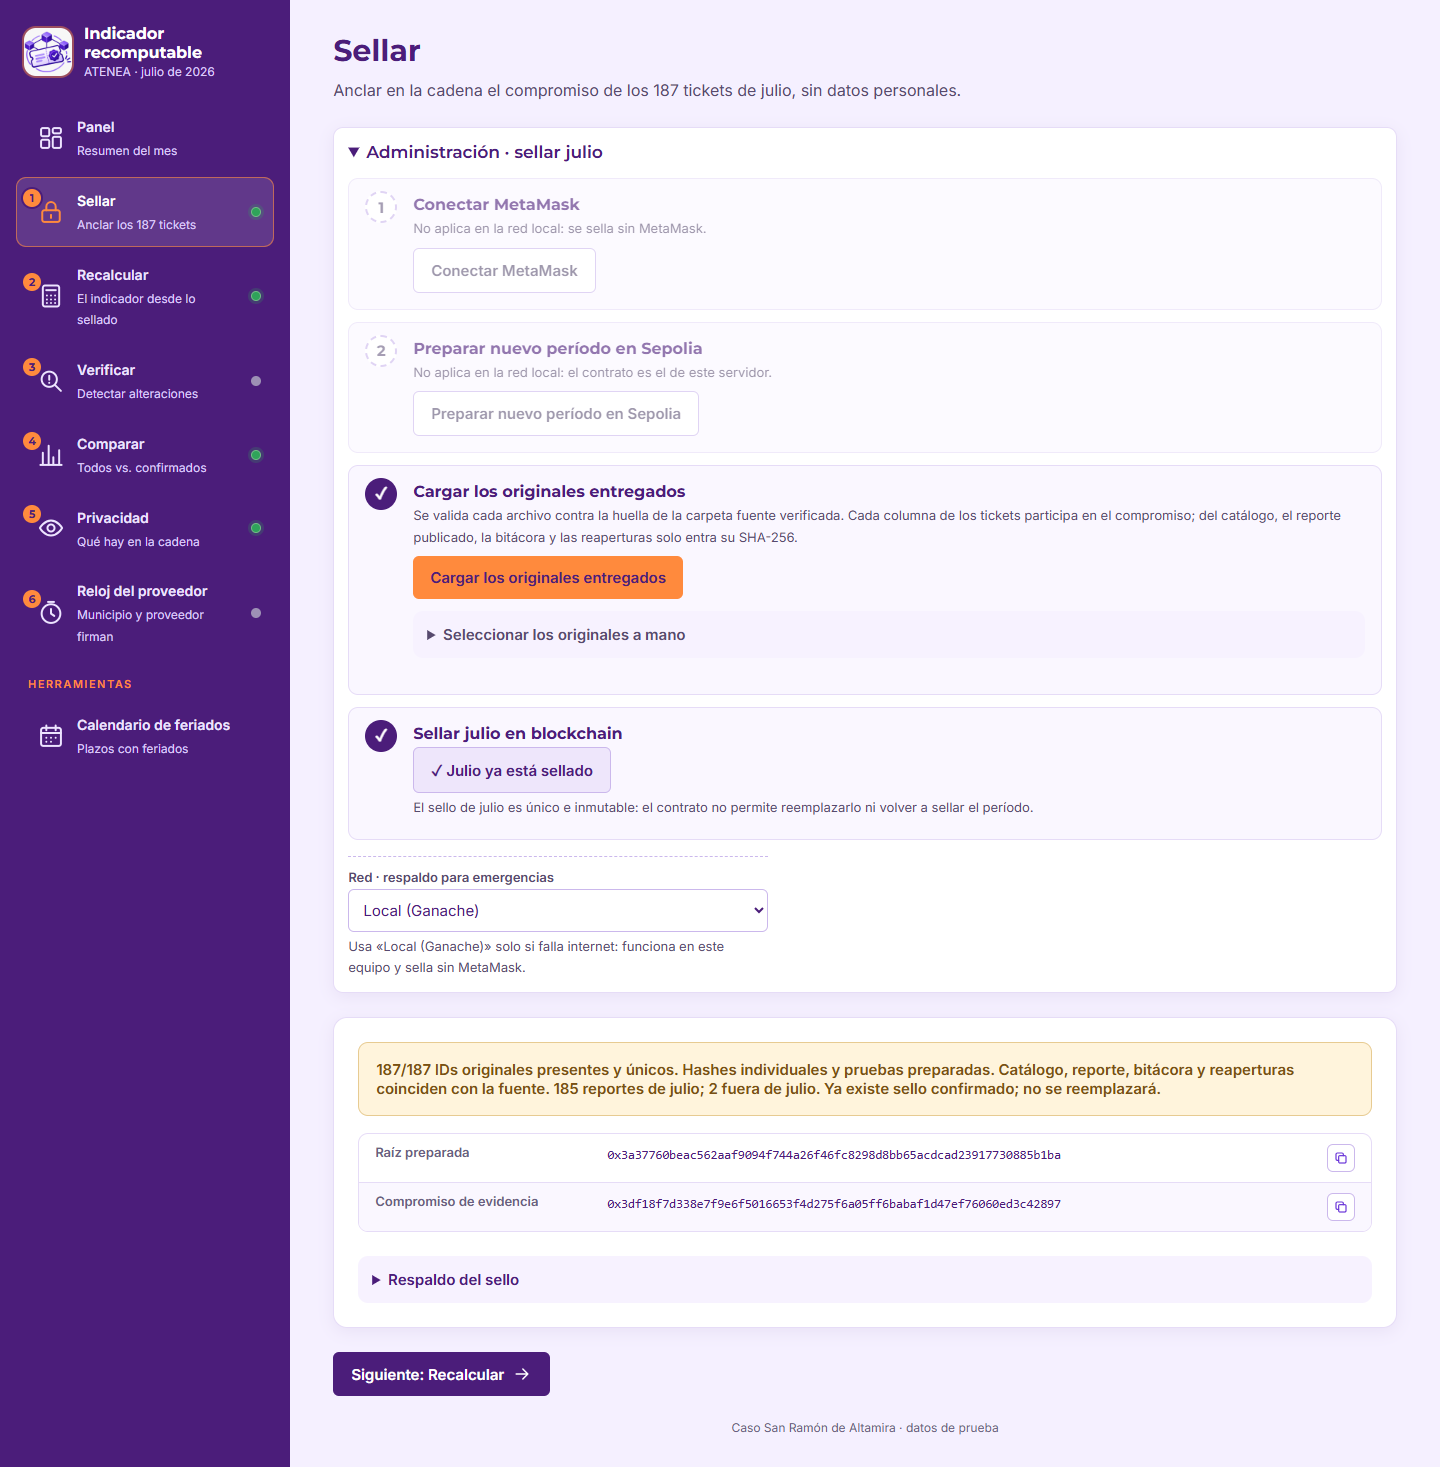
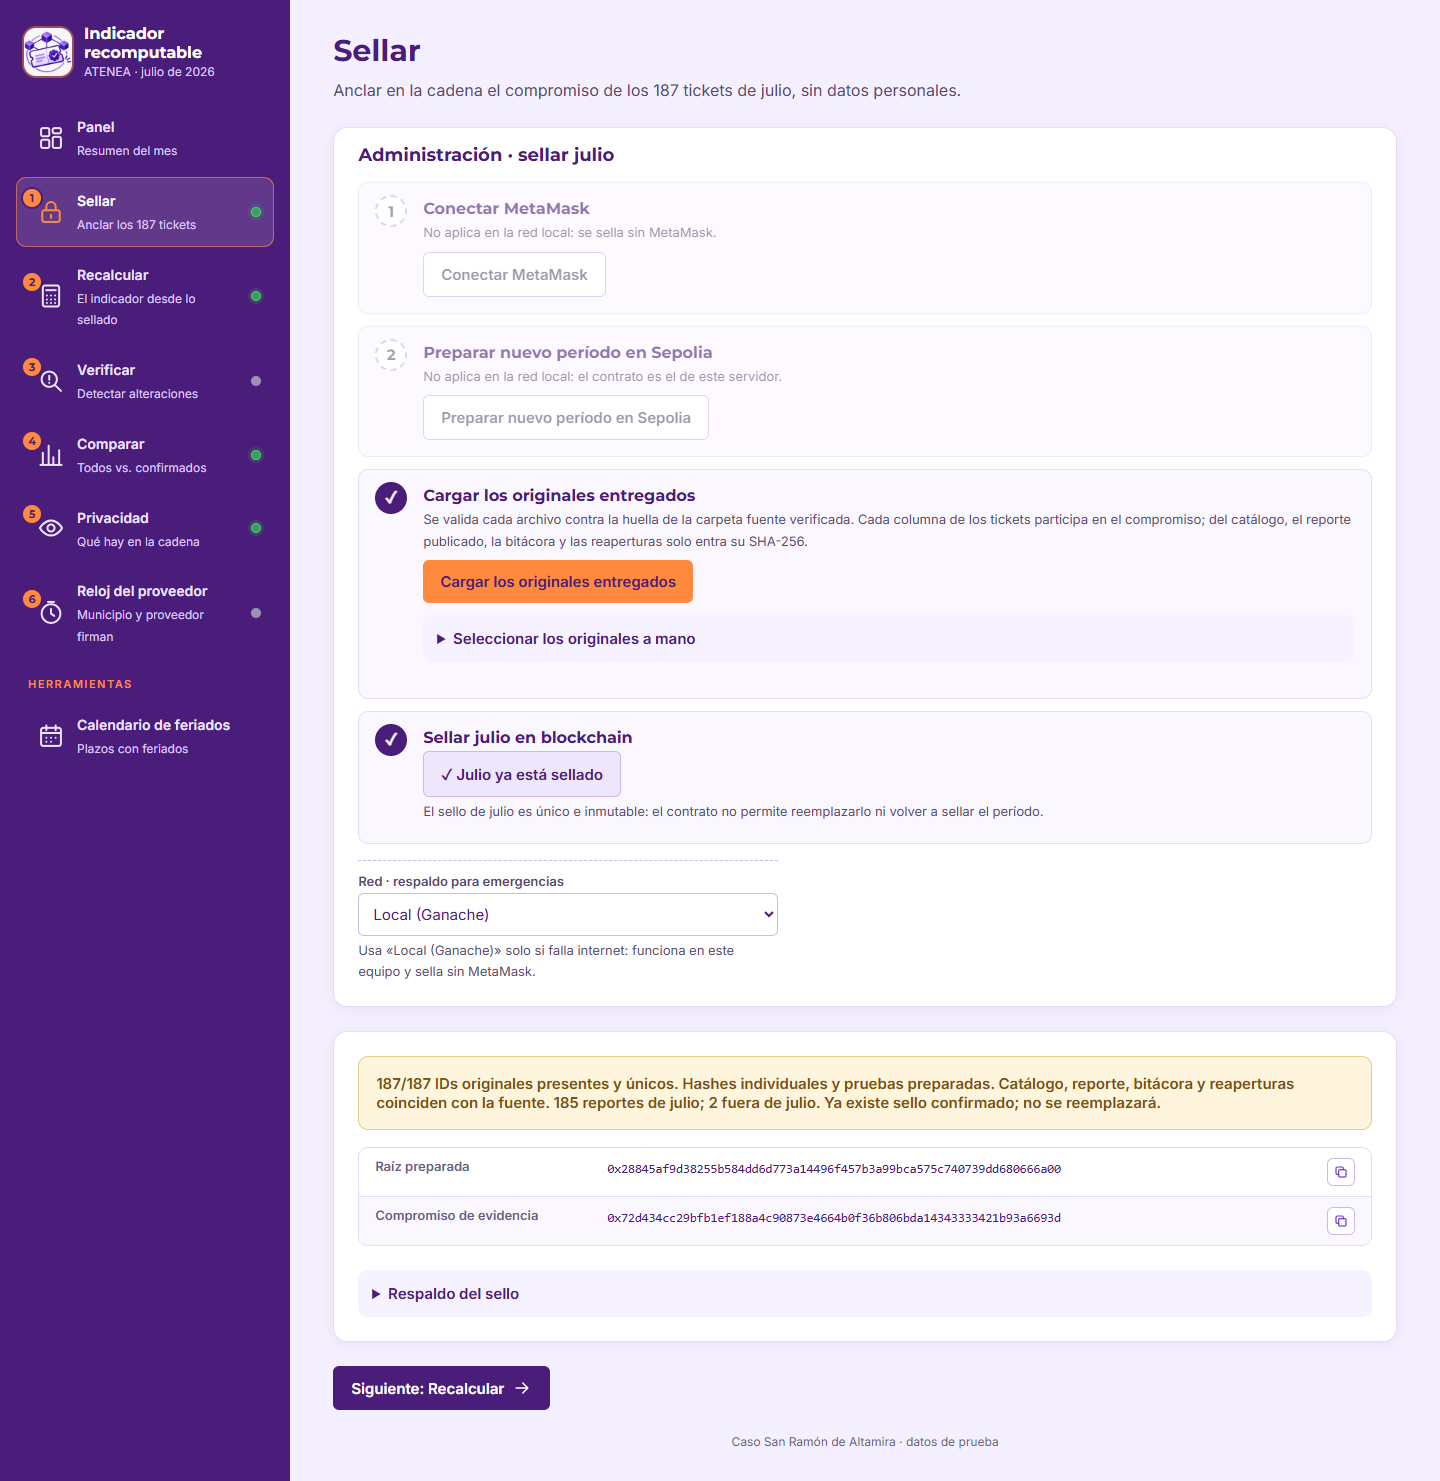
Arranque sin período: cada inicio del servidor archiva Sepolia
- Se quita npm run presentacion. startApp archiva, en cada arranque (equipo o Render), el
  período activo de Sepolia en evidencias/sepolia-historial/ y el reloj del proveedor en
  evidencias/reloj-sepolia-historial/ (scripts/arranque.mjs). Nada se borra; las sales siguen
  en .secreto/. Mientras el servidor sigue encendido, recargar no pierde el período.
- La página abre en Sepolia con «Sin período activo · prepara un nuevo período para sellar
  julio»; la red local solo sin internet o si se elige. El reloj en Sepolia empieza en
  «Preparar reloj en Sepolia».
- Sellar: el bloque de pasos es una sección fija, siempre arriba del todo y abierta.
- render.yaml: PORTAL_PROVEEDOR_URL del municipio toma el host del sitio portal-proveedor.
- tests/arranque.test.mjs; audit.mjs comprueba el arranque sin período. README y DEMO.md.
- El período real 0x523f…E48d quedó archivado por el arranque de la auditoría.
- npm test 66/66; verify:source 11/11; auditoría: Nivel 1 5/5 y Nivel 2 APROBADO.

diff --git a/src/style.css b/src/style.css
@@ -487,8 +487,9 @@ table.cases td.small { white-space: normal; min-width: 190px; }
 details.admin { background: transparent; border: 1px dashed var(--border-strong); }
 details.admin summary { font-weight: 600; color: var(--text); }
 /* Sellado en vivo: cuatro pasos numerados; cada uno se habilita cuando el anterior está completo. */
-details.admin.flow { background: var(--surface); border: 1px solid var(--border); box-shadow: var(--shadow); margin-bottom: var(--space-5); }
-details.admin.flow > summary { font-family: var(--font-display); font-size: 17px; color: var(--navy); }
+/* Siempre arriba y abierto: una sección fija, no un desplegable. */
+.admin.flow { background: var(--surface); border: 1px solid var(--border); border-radius: var(--radius-lg); box-shadow: var(--shadow); padding: var(--space-4) var(--space-5) var(--space-5); margin-bottom: var(--space-5); }
+.flow-title { margin: 0; font-family: var(--font-display); font-size: 18px; color: var(--navy); }
 .flow-steps { list-style: none; margin: var(--space-4) 0 0; padding: 0; display: grid; gap: var(--space-3); }
 .flow-step { display: grid; grid-template-columns: 36px minmax(0, 1fr); gap: var(--space-3); padding: var(--space-3) var(--space-4); border: 1px solid var(--border); border-radius: var(--radius); background: var(--surface-soft); }
 .flow-step h3 { margin: 4px 0 var(--space-1); font-family: var(--font-display); font-size: 16px; color: var(--navy); }

diff --git a/src/index.html b/src/index.html
@@ -90,7 +90,7 @@
 
 <section id="s1" class="view" data-route="sellar" aria-labelledby="t-sellar" hidden>
   <header class="viewhead"><h1 id="t-sellar" tabindex="-1">Sellar</h1><p>Anclar en la cadena el compromiso de los 187 tickets de julio, sin datos personales.</p></header>
-  <details id="adminFlow" class="admin flow" open><summary>Administración · sellar julio</summary>
+  <section id="adminFlow" class="admin flow" aria-labelledby="t-admin"><h2 id="t-admin" class="flow-title">Administración · sellar julio</h2>
     <ol class="flow-steps">
       <li class="flow-step" data-flow-step="1"><span class="flow-num" aria-hidden="true">1</span><div class="flow-body">
         <h3>Conectar MetaMask</h3>
@@ -130,7 +130,7 @@
       <select id="network"><option value="sepolia">Pública (Sepolia)</option><option value="local">Local (Ganache)</option></select>
       <p id="netHint" class="small">Usa «Local (Ganache)» solo si falla internet: funciona en este equipo y sella sin MetaMask.</p>
     </div>
-  </details>
+  </section>
   <div class="card">
     <output id="sealStatus" class="status pending" aria-live="polite">Sin sellado comprobado.</output>
     <div id="commitment" class="factbox"></div>

diff --git a/README.md b/README.md
@@ -29,7 +29,6 @@ Para una demostración desde cero (contrato sin sellar en una instancia nueva): 
 | Comando | Qué hace |
 |---|---|
 | `npm.cmd test` | 65 pruebas: núcleo, sal, hallazgos, contrato, privacidad, Sepolia ensayado en Ganache y reloj del proveedor (Nivel 2, con lotes y el flujo municipio → proveedor) |
-| `npm.cmd run presentacion` | El día de la presentación: archiva el período y el reloj activos de Sepolia y abre la app sin período |
 | `npm.cmd run proveedor` | Portal del proveedor, programa aparte, en http://127.0.0.1:8081 |
 | `npm.cmd run test:evidencia` | Las mismas pruebas, guardadas en `evidencias/pruebas-unitarias.txt` sin rutas personales |
 | `npm.cmd run compile` | Recompila el contrato y regenera `contracts/RegistroIndicador.json` (abi, bytecode, compilador e input estándar) |
@@ -85,7 +84,7 @@ La vista **6 · Reloj del proveedor** (`#/proveedor`) tiene dos modos:
 | Municipio | Esta app, `npm.cmd start` (puerto 8080) | Su MetaMask, por ejemplo en Chrome | 1 «Preparar reloj en Sepolia»: despliega `RelojProveedor` y registra al proveedor 1 con la dirección del campo (por defecto `0x417502991342eAf1B71015b66D128B75D7a0fA67`). 2 «Firmar apertura de 9 casos»: una sola firma (`abrirCasos`). 3 «Enviar al proveedor»: copia el enlace al portal con `?contrato=0x…`. |
 | Proveedor 1 | Portal del proveedor, `npm.cmd run proveedor` (puerto 8081), carpeta `portal-proveedor/` | **Otra** MetaMask, con su propia frase secreta, por ejemplo en Edge | «Conectar MetaMask» (dice si la cuenta es la del proveedor 1), aviso en naranja «Nuevos casos del municipio: 9 pendientes de tu respuesta», simulación de cada caso sin gas (PVT-04226 en rojo) y «Firmar respuestas»: un solo lote con los casos válidos (`responderCasos`). |
 
-- El servidor del municipio valida el despliegue del reloj por RPC público, como en el Nivel 1: bytecode de `RelojProveedor` (salvo el inmutable `municipio`), argumentos del constructor (solo PV-01, con su SLA y tarifa), red y cuenta que desplegó. Solo entonces escribe `evidencias/reloj-sepolia.json`. El reloj anterior pasa a `evidencias/reloj-sepolia-historial/`, y `npm.cmd run presentacion` también lo archiva.
+- El servidor del municipio valida el despliegue del reloj por RPC público, como en el Nivel 1: bytecode de `RelojProveedor` (salvo el inmutable `municipio`), argumentos del constructor (solo PV-01, con su SLA y tarifa), red y cuenta que desplegó. Solo entonces escribe `evidencias/reloj-sepolia.json`. El reloj anterior pasa a `evidencias/reloj-sepolia-historial/`. Cada arranque del servidor también lo archiva: la vista empieza en «Preparar reloj en Sepolia».
 - La vista del municipio revisa Sepolia cada 5 segundos y se actualiza sola: estado de cada caso, horas, penalidad leída de `penalidad()`, PVT-04226 rechazado, total **2.592 USD** y enlaces a Etherscan de cada apertura y respuesta.
 - El portal **no comparte estado** con el servidor del municipio: es un sitio estático (HTML, CSS y JS) que lee Sepolia por RPC público y firma con la MetaMask del proveedor. Las horas de respuesta salen del registro del propio proveedor (`portal-proveedor/casos-pv01.json`, una prueba comprueba que coinciden con `datos/tickets_proveedor.csv`).
 - Si se conecta en el portal la cuenta del municipio u otra cualquiera, el portal explica que esa llave no puede responder, y no envía nada.
@@ -118,7 +117,9 @@ El mismo `render.yaml` crea **dos servicios separados**, cada uno con su propia 
 | `reto-03-indicador-recomputable` | Web (Node) | La app del municipio, igual que antes. |
 | `portal-proveedor` | Sitio estático | Solo la carpeta `portal-proveedor/`. No tiene servidor ni API: el navegador del proveedor lee Sepolia por RPC público y firma con su MetaMask. |
 
-Después de crear los dos servicios, en el servicio del municipio (Render → *Environment*) agregar la variable **`PORTAL_PROVEEDOR_URL`** con la dirección del portal, por ejemplo `https://portal-proveedor.onrender.com/`. Así «Enviar al proveedor» arma el enlace al portal publicado. Sin esa variable, el enlace apunta a `http://127.0.0.1:8081/` (el portal en este mismo equipo, con `npm.cmd run proveedor`).
+La variable **`PORTAL_PROVEEDOR_URL`** del servicio del municipio ya viene en `render.yaml`: Render le pasa la dirección del sitio estático `portal-proveedor` y el servidor le agrega `https://`. Así «Enviar al proveedor» arma el enlace al portal publicado. Se puede reemplazar en Render → *Environment* con una dirección completa (por ejemplo, un dominio propio). Sin esa variable, como en el equipo con `npm.cmd start`, el enlace apunta a `http://127.0.0.1:8081/` (el portal con `npm.cmd run proveedor`).
+
+En Render, el disco no es persistente y cada arranque empieza sin período: se prepara y se sella en vivo.
 
 ## Ancla en Sepolia con MetaMask
 
@@ -126,11 +127,11 @@ El municipio despliega y sella **desde la página, firmando con MetaMask**: la l
 
 **Una sola vez:** instalar MetaMask, crear una cuenta **de prueba** para el municipio y pedir Sepolia ETH en un faucet (con 0,05 ETH sobra). Para la presentación la app corre en la computadora del municipio con `npm.cmd start`.
 
-**El día de la presentación:** `npm.cmd run presentacion`. Archiva el período activo (configuración y evidencia) en `evidencias/sepolia-historial/`, sin borrar sales ni historial, y abre la app sin período activo: julio no aparece sellado y se sella en vivo. `npm.cmd start` conserva el último período activo, para reabrir la app sin perder nada.
+**Cada arranque empieza sin período.** Cada vez que arranca el servidor (`npm.cmd start`, en el equipo o en Render), el período activo de Sepolia (configuración y evidencia) pasa a `evidencias/sepolia-historial/` y el reloj del proveedor a `evidencias/reloj-sepolia-historial/`. No se borra nada: las sales siguen en `.secreto/`, una por contrato. Al abrir, Sellar dice «Sin período activo · prepara un nuevo período para sellar julio» y julio nunca aparece sellado: se sella en vivo. Mientras el servidor sigue encendido, recargar la página no pierde el período preparado en la sesión. Si el servidor se reinicia, hay que preparar y sellar un período nuevo.
 
-La app abre en Sepolia por defecto. Si no hay internet (o, con `npm.cmd start`, no hay ningún período), abre la red local. El selector de red está al final de **Administración**, como respaldo para emergencias. La dirección del contrato y su enlace a Etherscan se ven en Sellar (paso 2) y en el Panel.
+La app abre en Sepolia. Si no hay internet, abre la red local. El selector de red está al final de **Administración**, como respaldo para emergencias. La dirección del contrato y su enlace a Etherscan se ven en Sellar (paso 2) y en el Panel.
 
-**Sellar en vivo**, en la vista **Sellar** → **Administración** (arriba y abierta), cuatro pasos que se habilitan en orden y se marcan con ✓:
+**Sellar en vivo**, en la vista **Sellar** → **Administración**: siempre arriba del todo y abierta, con cuatro pasos que se habilitan en orden y se marcan con ✓:
 
 1. **Conectar MetaMask**: muestra la cuenta, la red y si es la cuenta del municipio (owner del contrato).
 2. **Preparar nuevo período en Sepolia**. MetaMask pide cambiar a Sepolia si hace falta y firmar el despliegue de `RegistroIndicador` (bytecode de `contracts/RegistroIndicador.json`, con el `rulesHash` de estas reglas). El servidor comprueba en la red pública que el código desplegado es `RegistroIndicador`, que el `rulesHash` es el correcto y que el owner es quien lo desplegó. Solo entonces escribe `evidencias/red-sepolia.json`. El período anterior pasa a `evidencias/sepolia-historial/`; no se borra.

diff --git a/docs/AUDITORIA.md b/docs/AUDITORIA.md
@@ -1,6 +1,6 @@
 # Auditoría Nivel 1 — Reto 03
 
-Ejecución UTC: 2026-11-14T06:23:49.735Z → 2026-11-14T06:25:17.578Z. Zona de presentación: America/Guayaquil.
+Ejecución UTC: 2026-11-14T06:57:06.565Z → 2026-11-14T06:58:21.186Z. Zona de presentación: America/Guayaquil.
 
 Resultado: **NIVEL 1 COMPLETO**.
 
@@ -64,11 +64,11 @@ Resultado: **NIVEL 2 COMPLETO**.
 
 ## Pruebas complementarias
 
+- Arranque sin período activo: período y reloj de Sepolia archivados en el historial, Sellar dice «Sin período activo», julio no aparece sellado, pasos 1 a 4 arriba y abiertos, y los pasos 2 a 4 esperan al 1: APROBADO.
 - Navegación: 7 rutas con una sola vista visible, aria-current, atrás y adelante, estado de sello y verificación conservado entre vistas, guion con 5 pasos cumplidos: APROBADO.
 - Segundo sellado rechazado por EVM: APROBADO.
 - Simulación de feriado 2026-07-24: 4 tickets cambian de estado, sin tocar el sello: APROBADO.
-- Sepolia: sello leído en solo lectura por RPC público: APROBADO.
-- Sin período activo (arranque de presentación): «Sin período activo», julio no aparece sellado y los pasos 2 a 4 esperan al paso 1: APROBADO.
+- Sepolia sin período activo: la interfaz lo indica y no inventa un ancla: APROBADO.
 - RPC bloqueado: sin verde ni indicadores acreditados: APROBADO.
 - Proxy /rpc: rechaza evm_revert, evm_mine y transacciones fuera del contrato; deja pasar lecturas: APROBADO.
 - Recarga: se conserva la vista de la ruta (#/comparar): APROBADO.
@@ -83,7 +83,7 @@ Resultado: **NIVEL 2 COMPLETO**.
 - Las pruebas unitarias se ejecutan con npm test; sus resultados se conservan por separado en evidencias/pruebas-unitarias.txt. No se confunden los anclajes de pruebas unitarias con el sello real de aceptación.
 - La EVM local (Ganache) es el respaldo sin internet; no es una red pública. Ganache conserva bloques y estado por instancia en .instances/. Es necesario npm start para consultar las evidencias por RPC; el JSON y las capturas por sí solos no reemplazan esa consulta.
 - El motor descuenta feriados configurados. Se usa lista vacía como supuesto explícito porque no se entregó calendario oficial. Ver docs/CALENDARIO.md. La vista «Calendario de feriados» muestra el efecto sin sellar.
-- El ancla pública en Sepolia se despliega con npm run deploy:sepolia y npm run seal:sepolia; sin evidencias/red-sepolia.json la auditoría solo comprueba que la interfaz lo declara pendiente.
+- Sepolia: cada arranque del servidor archiva el período y el reloj activos en el historial (evidencias/sepolia-historial/ y evidencias/reloj-sepolia-historial/), sin borrar nada. El período se prepara y se sella en vivo con MetaMask, que no se automatiza: la auditoría comprueba que la interfaz abre «Sin período activo» y no inventa un ancla. Los sellos reales anteriores quedan en el historial y en Sepolia.
 - Un sello acredita integridad posterior al anclaje, no veracidad ni cumplimiento institucional anterior.
 - Nivel 2: en la demo las llaves del municipio y de los proveedores están en el mismo servidor (cuentas de Ganache). En la realidad cada organización guarda la suya y firma desde su propio equipo; el contrato ya exige que cada paso lo firme la cuenta correcta.
 - Nivel 2: el SLA contractual se mide en horas corridas, no hábiles, porque así vienen los datos de tickets_proveedor.csv. El reloj registra lo que cada parte firma; no prueba que la hora firmada sea la real.

diff --git a/docs/DEMO.md b/docs/DEMO.md
@@ -5,10 +5,10 @@ Hilo conductor: julio de 2026. Los cinco criterios del Nivel 1, en su orden, y d
 ## Preparación (antes del cronómetro)
 
 1. `npm.cmd ci --no-audit --no-fund` y `npm.cmd test` (todo en verde).
-2. Cerrar cualquier proceso en los puertos 8080 y 8545 y ejecutar **`npm.cmd run presentacion`** en la computadora del municipio. Archiva el período activo de Sepolia en `evidencias/sepolia-historial/` (no borra nada: las sales siguen en `.secreto/`) y abre la app **sin período activo**. Abrir http://127.0.0.1:8080: Sellar dice «Sin período activo · prepara un nuevo período para sellar julio». (Para Sepolia no usar Render: su disco no guarda la sal entre reinicios.)
+2. Cerrar cualquier proceso en los puertos 8080 y 8545 y ejecutar `npm.cmd start` en la computadora del municipio. Cada arranque archiva el período y el reloj de Sepolia en el historial (no borra nada: las sales siguen en `.secreto/`) y abre la app **sin período activo**. Abrir http://127.0.0.1:8080: Sellar dice «Sin período activo · prepara un nuevo período para sellar julio». (Para Sepolia no usar Render: su disco no guarda la sal entre reinicios.)
 3. MetaMask: cuenta del municipio, red Sepolia, con Sepolia ETH de prueba, en **Chrome**.
 3b. Nivel 2, el proveedor: en otra terminal, `npm.cmd run proveedor` (portal en http://127.0.0.1:8081, programa aparte; o el portal publicado en Render). El compañero que hace de proveedor usa **Edge** con **su propia MetaMask** (otra frase secreta), en Sepolia y con Sepolia ETH; su cuenta es `0x417502991342eAf1B71015b66D128B75D7a0fA67`.
-4. Si la app se cierra por accidente durante la presentación, reabrirla con `npm.cmd start`: conserva el último período activo y su sello. (Si se cerró antes de preparar el período, volver a usar `npm.cmd run presentacion`.)
+4. Recargar la página no pierde nada mientras el servidor siga encendido. **No cerrar la terminal**: si el servidor se reinicia, el período pasa al historial y hay que preparar y sellar uno nuevo (cerca de un minuto, con dos firmas en MetaMask).
 5. Abrir en el Bloc de notas una **copia** de `datos/tickets.csv` (por ejemplo en el Escritorio). No editar el original y no usar un editor con autoguardado: guardaría el cambio a medio escribir. Dejar el cursor en TK-2026-04201, primera fila.
 6. Tener a mano las dos láminas de `presentacion/`.
 7. Sin internet: usar la red «Local (Ganache)» con `npm.cmd run demo` (o `INICIAR_DEMO.cmd`), que crea una instancia nueva sin sellar. Todo funciona igual, sellando sin MetaMask.
